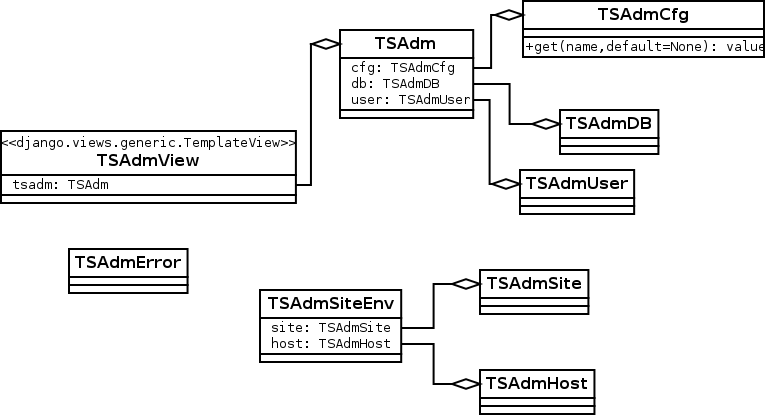
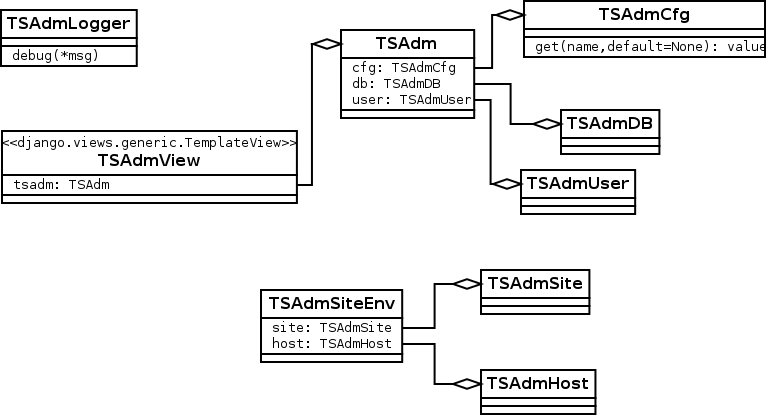
TSAdmLogger class - basic debug log

diff --git a/src/tsadm/__init__.py b/src/tsadm/__init__.py
@@ -1,6 +1,9 @@
 from tsadmcfg import getConfig
 from tsadmdb import getDB
 from tsadmuser import TSAdmUser
+from tsadmlog import TSAdmLogger
+
+logger = TSAdmLogger()
 
 class TSAdm:
     cfg = None
@@ -8,6 +11,7 @@ class TSAdm:
     user = None
 
     def __init__(self):
+        logger.debug('TSAdm init')
         self.cfg = getConfig()
         self.db = getDB()
         self.user = TSAdmUser()

diff --git a/src/tsadmviews/__init__.py b/src/tsadmviews/__init__.py
@@ -1,10 +1,14 @@
 from django.contrib.auth.mixins import LoginRequiredMixin
 from django.views.generic import TemplateView
 
+from tsadmlog import TSAdmLogger
 from tsadm import TSAdm
+
+logger = TSAdmLogger()
 
 class TSAdmView(LoginRequiredMixin, TemplateView):
     tsadm = None
 
     def __init__(self):
+        logger.debug('TSAdmView init')
         self.tsadm = TSAdm()

diff --git a/src/tsadmlog/__init__.py b/src/tsadmlog/__init__.py
@@ -1,0 +1,15 @@
+import sys
+
+class TSAdmLogger:
+    def __print(self, tag, *msg):
+        print(tag, *msg, file=sys.stderr)
+
+    def debug(self, *msg):
+        self.__print('D:', *msg)
+
+__LOGGER = None
+
+def getLogger():
+    if __LOGGER is None:
+        __LOGGER = TSAdmLogger()
+    return __LOGGER
